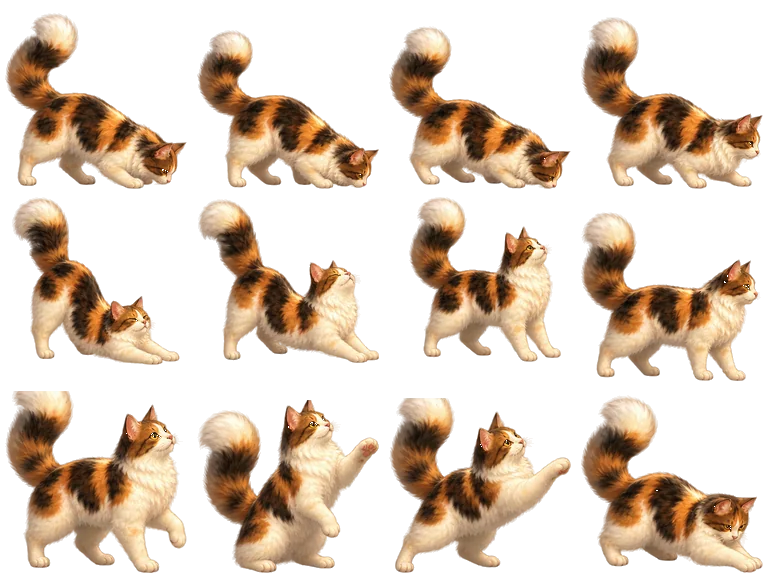
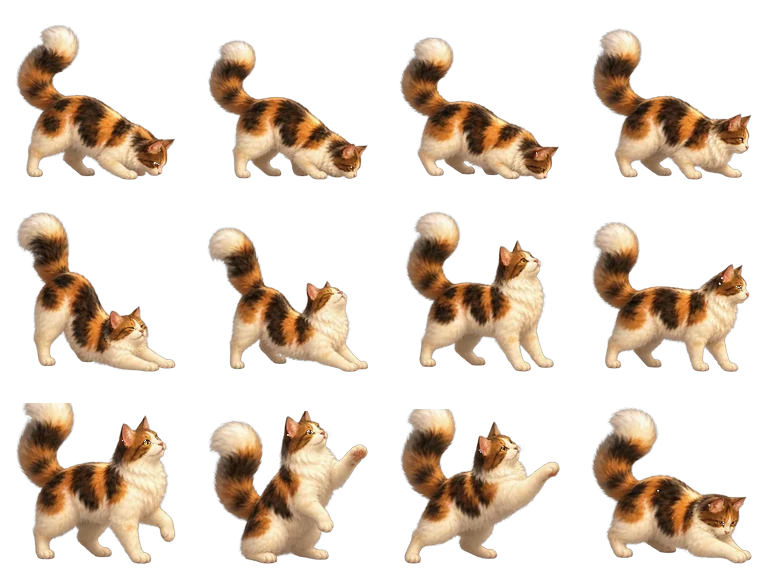
Let the cat and the furniture obey the perspective
The four causes held as next-session priority. One was not what the note
said it was.

The clipping was real and the diagnosis was not. Frames do not touch their
cell edges - each had about 3px of clearance in a 192px cell. But the cat
renders near 120px, so 3px is under two device pixels, and the sheet is
addressed in percentages: background-position lands on fractions and
bleeds a sliver of the next frame along the seam. Frames are repacked to
84% of their cell on a common baseline, margins 3px to 12px. Repacked
rather than position-snapped, because it will always be addressed in
percentages.

The cat was a flat 13% of the scene everywhere, a giant against the back
wall while everything near it shrank with the depth. widthAt(y) maps the
anchor range onto the approved 6-9% band and clamps it: 6% at the door, 9%
at the front. The rule lives in the pet module so every caller agrees.

The walk was eleven poses a second, crossing the yard in under two seconds
and stopping dead. Now 160ms a frame, with speed falling away over the
last stretch so it settles rather than hits - no new state, the distance
left is the only input. Same journey: 1.8s to 5.4s, 11.1 pose changes a
second to 6.3, still landing exactly on the anchor.

Furniture ignored where it stood, so the same table covered the same
fraction of the picture at the back wall as at the front. Width is now the
object's size times its slot's depth: 20.16% at the back, 28% at the
front, same table.
[…]

diff --git a/index.html b/index.html
@@ -16,7 +16,7 @@
 <link rel="preconnect" href="https://fonts.googleapis.com">
 <link rel="preconnect" href="https://fonts.gstatic.com" crossorigin>
 <link href="https://fonts.googleapis.com/css2?family=Shippori+Mincho:wght@400;600;800&family=Zen+Maru+Gothic:wght@400;500;700&display=swap" rel="stylesheet">
-<link rel="stylesheet" href="styles.css?v=162">
+<link rel="stylesheet" href="styles.css?v=163">
 </head>
 <body>
 
@@ -215,31 +215,31 @@
   <footer class="credits">Lantern Alley &middot; a small Japanese story-walk</footer>
 </div>
 
-<script src="curriculum-catalog.js?v=162"></script>
-<script src="learning-content.js?v=162"></script>
-<script src="review-engine.js?v=162"></script>
-<script src="learning-progress.js?v=162"></script>
-<script src="learning-economy.js?v=162"></script>
-    <script src="learning-gloss.js?v=162"></script>
-    <script src="home-room.js?v=162"></script>
-    <script src="home-decor.js?v=162"></script>
-    <script src="home-garden.js?v=162"></script>
-    <script src="home-pet.js?v=162"></script>
-    <script src="daily-practice.js?v=162"></script>
-    <script src="review-mode.js?v=162"></script>
-<script src="question-renderer.js?v=162"></script>
-<script src="catalog-practice.js?v=162"></script>
-<script src="entrance-stage-logic.js?v=162"></script>
-<script src="moonview-inn-interactions.js?v=162"></script>
-<script src="n2-home-inn-stage.js?v=162"></script>
-<script src="n2-inn-episodes.js?v=162"></script>
-    <script src="n2-market-episodes.js?v=162"></script>
-    <script src="n2-teahouse-episodes.js?v=162"></script>
-    <script src="n2-station-episodes.js?v=162"></script>
-    <script src="n2-shrine-episodes.js?v=162"></script>
-<script src="audio-index.js?v=162"></script>
-<script src="lantern-map.js?v=162"></script>
-<script src="app.js?v=162"></script>
+<script src="curriculum-catalog.js?v=163"></script>
+<script src="learning-content.js?v=163"></script>
+<script src="review-engine.js?v=163"></script>
+<script src="learning-progress.js?v=163"></script>
+<script src="learning-economy.js?v=163"></script>
+    <script src="learning-gloss.js?v=163"></script>
+    <script src="home-room.js?v=163"></script>
+    <script src="home-decor.js?v=163"></script>
+    <script src="home-garden.js?v=163"></script>
+    <script src="home-pet.js?v=163"></script>
+    <script src="daily-practice.js?v=163"></script>
+    <script src="review-mode.js?v=163"></script>
+<script src="question-renderer.js?v=163"></script>
+<script src="catalog-practice.js?v=163"></script>
+<script src="entrance-stage-logic.js?v=163"></script>
+<script src="moonview-inn-interactions.js?v=163"></script>
+<script src="n2-home-inn-stage.js?v=163"></script>
+<script src="n2-inn-episodes.js?v=163"></script>
+    <script src="n2-market-episodes.js?v=163"></script>
+    <script src="n2-teahouse-episodes.js?v=163"></script>
+    <script src="n2-station-episodes.js?v=163"></script>
+    <script src="n2-shrine-episodes.js?v=163"></script>
+<script src="audio-index.js?v=163"></script>
+<script src="lantern-map.js?v=163"></script>
+<script src="app.js?v=163"></script>
 
 <script>
   // Service workers need http(s); opening this file directly with file://

diff --git a/home-room.js b/home-room.js
@@ -20,17 +20,26 @@
   // Slots the decor system will fill later. Named by where they are in the
   // room rather than by what goes in them, so a lamp and a plant can compete
   // for the same corner.
+  /* The room is painted in perspective too, so each position carries how far
+   * back it is - the same `scale` the yard beds use.
+   *
+   * The floor is calibrated separately from the wall on purpose. Depth on a
+   * floor is real recession: a table at the back of the room genuinely covers
+   * less of the picture than the same table at the front. A wall is a flat
+   * plane facing the viewer, so a scroll hung high is not further away and
+   * shrinking it would look wrong rather than deep. Shelf and sill sit on that
+   * same back plane and are treated with it. */
   var SLOTS = [
-    {id:"floor-left",   x:27, y:80, kind:"floor", label:"床の左"},
-    {id:"floor-right",  x:73, y:80, kind:"floor", label:"床の右"},
-    {id:"floor-back-left", x:32, y:68, kind:"floor", label:"床の奥左"},
-    {id:"floor-back-right", x:68, y:68, kind:"floor", label:"床の奥右"},
-    {id:"floor-front", x:50, y:88, kind:"floor", label:"床の手前"},
-    {id:"wall-left",    x:12, y:45, kind:"wall",  label:"壁の左"},
-    {id:"wall-right",   x:88, y:45, kind:"wall",  label:"壁の右"},
-    {id:"shelf",        x:50, y:66, kind:"shelf", label:"奥の段"},
-    {id:"window-sill",  x:34, y:60, kind:"sill",  label:"窓辺"},
-    {id:"tokonoma", x:50, y:51, kind:"shelf", label:"床の間"}
+    {id:"floor-left",   x:27, y:80, scale:0.89, kind:"floor", label:"床の左"},
+    {id:"floor-right",  x:73, y:80, scale:0.89, kind:"floor", label:"床の右"},
+    {id:"floor-back-left", x:32, y:68, scale:0.72, kind:"floor", label:"床の奥左"},
+    {id:"floor-back-right", x:68, y:68, scale:0.72, kind:"floor", label:"床の奥右"},
+    {id:"floor-front", x:50, y:88, scale:1.00, kind:"floor", label:"床の手前"},
+    {id:"wall-left",    x:12, y:45, scale:0.92, kind:"wall",  label:"壁の左"},
+    {id:"wall-right",   x:88, y:45, scale:0.92, kind:"wall",  label:"壁の右"},
+    {id:"shelf",        x:50, y:66, scale:0.78, kind:"shelf", label:"奥の段"},
+    {id:"window-sill",  x:34, y:60, scale:0.80, kind:"sill",  label:"窓辺"},
+    {id:"tokonoma", x:50, y:51, scale:0.85, kind:"shelf", label:"床の間"}
   ];
 
   /* The eight beds, measured off the painting rather than estimated from it.

diff --git a/home-pet.js b/home-pet.js
@@ -36,6 +36,25 @@
 
   function copy(value){ return JSON.parse(JSON.stringify(value)); }
   function sceneAnchors(scene){ return (SCENES[scene] || []).map(copy); }
+
+  /* How big the cat is where it is standing.
+   *
+   * Both scenes are painted in perspective and the cat was a flat 13% of the
+   * scene everywhere, which made it a giant at the back wall and left it
+   * ignoring the depth every other object respects. Anchors run from y=45 at
+   * the back to y=88 at the front; this maps that onto the approved 6-9% band
+   * and clamps, so a position outside the authored range cannot produce an
+   * absurd size. */
+  var PET_MIN_WIDTH = 6;
+  var PET_MAX_WIDTH = 9;
+  var PET_NEAR_Y = 88;
+  var PET_FAR_Y = 45;
+
+  function widthAt(y){
+    var depth = (Number(y) - PET_FAR_Y) / (PET_NEAR_Y - PET_FAR_Y);
+    depth = Math.max(0, Math.min(1, depth));
+    return +(PET_MIN_WIDTH + (PET_MAX_WIDTH - PET_MIN_WIDTH) * depth).toFixed(2);
+  }
   function find(scene, id){ return (SCENES[scene] || []).filter(function(row){ return row.id === id; })[0] || null; }
 
   function create(scene, seed){
@@ -81,7 +100,15 @@
     var dx = target.x - next.x;
     var dy = target.y - next.y;
     var distance = Math.sqrt(dx * dx + dy * dy);
-    var travel = elapsed * 0.012;
+    /* Slower, and slowing further as it arrives.
+      *
+      * A flat 0.012 scene-percent per millisecond crossed the yard in about
+      * three seconds and stopped dead on the spot, which is what read as jumpy.
+      * Speed now falls away over the last stretch, so the cat settles onto an
+      * anchor instead of hitting it. No extra state: the distance left is the
+      * only input. */
+    var approach = Math.min(1, distance / 14);
+    var travel = elapsed * (0.0016 + 0.0044 * approach);
     if(distance <= travel || distance === 0){
       next.x = target.x;
       next.y = target.y;
@@ -94,7 +121,8 @@
     next.x += dx / distance * travel;
     next.y += dy / distance * travel;
     next.behavior = "walk";
-    next.frame = Math.floor(next.clock / 90) % 8;
+    // 90ms was eleven poses a second for a walking cat. 160 is a walk.
+    next.frame = Math.floor(next.clock / 160) % 8;
     return next;
   }
 
@@ -145,6 +173,7 @@
 
   root.LanternHomePet = {
     anchors:sceneAnchors,
+    widthAt:widthAt,
     behaviors:function(){ return Object.keys(SPRITES); },
     create:create,
     sendTo:sendTo,

diff --git a/app.js b/app.js
@@ -2994,7 +2994,14 @@
       + (attrs || "") + '>' + inner + '</div>';
   }
 
-  function decorSceneWidth(item){
+  /* An object's size on screen is what it is, times where it stands.
+   *
+   * This used to be the item alone, so the same low table covered the same
+   * fraction of the picture at the back wall as at the front of the room - the
+   * one thing a scene drawn in perspective cannot survive. The slot's `scale`
+   * supplies the depth; the table below stays what it always was, the object's
+   * own size. */
+  function decorSceneWidth(item, slot){
     var widths = {
       "rug-plain":26, "low-table":28, kotatsu:30, "folding-screen":32,
       "floor-cushion-navy":18, "plant-small":12, brazier:12,
@@ -3002,7 +3009,8 @@
       fan:10, mask:9, teapot:8, books:10, "cat-figure":8, daruma:8,
       "sakura-bonsai":13, "pine-bonsai":13, "sill-plant":7, "wind-chime":7
     };
-    return widths[item && item.id] || 18;
+    var base = widths[item && item.id] || 18;
+    return +(base * ((slot && slot.scale) || 1)).toFixed(2);
   }
 
   function homePetMarkup(scene){
@@ -3014,7 +3022,9 @@
       homePetIdleMs = 0;
     }
     var sprite = LanternHomePet.spriteFor(homePetState);
-    return '<div class="home-pet" aria-hidden="true" style="left:' + homePetState.x
+    var petWidth = (typeof LanternHomePet !== "undefined" && LanternHomePet.widthAt)
+      ? LanternHomePet.widthAt(homePetState.y) : 7.5;
+    return '<div class="home-pet" aria-hidden="true" style="width:' + petWidth + '%;left:' + homePetState.x
       + '%;top:' + homePetState.y + '%;--pet-facing:' + homePetState.facing + '">'
       + '<span style="background-image:url(\'' + sprite.path + '\');background-size:'
       + (sprite.columns * 100) + '% ' + (sprite.rows * 100) + '%"></span></div>';
@@ -3148,7 +3158,7 @@
         html += positioned("home-item", slot, decorArt(here, item.name),
           ' data-slot-item="' + slot.id + '" role="button" tabindex="0"'
             + ' aria-label="' + item.name + ' をかたづける"',
-          'width:' + decorSceneWidth(item) + '%');
+          'width:' + decorSceneWidth(item, slot) + '%');
       });
       if(picked){
         interior.slots.forEach(function(slot){

diff --git a/styles.css b/styles.css
@@ -1583,8 +1583,12 @@
      everything from the house, so anything standing in it needs to sit in that
      light rather than float above it. */
   .home-plant, .home-item{position:absolute; width:20%; cursor:pointer; line-height:0}
+  /* Width is set inline from the cat's own depth, so the flat 13% here is only
+     the fallback for a render before the pet module has spoken. It used to be
+     the actual size everywhere, which made the cat a giant against the back
+     wall while every object around it shrank with the perspective. */
   .home-pet{
-    position:absolute; z-index:3; width:13%; aspect-ratio:1;
+    position:absolute; z-index:3; width:7.5%; aspect-ratio:1;
     transform:translate(-50%,-86%); pointer-events:none; line-height:0;
     filter:drop-shadow(0 3px 4px rgba(28,16,8,.48)) saturate(.9) sepia(.08);
   }
@@ -1592,7 +1596,7 @@
     display:block; width:100%; height:100%; background-repeat:no-repeat;
     transform:scaleX(var(--pet-facing,1)); transform-origin:center bottom;
   }
-  @media (prefers-reduced-motion:reduce){.home-pet{width:12%}}
+  /* Reduced motion changes whether it moves, not how big it is. */
   /* Three small things, all of which stop a cut-out reading as pasted on.
 
      The shadow gives it contact with the ground. The warm grade pulls a

diff --git a/sw.js b/sw.js
@@ -7,7 +7,7 @@
  * Bump CACHE_VERSION whenever any shell file changes, or returning players
  * will keep the old build.
  */
-var CACHE_VERSION = "lantern-alley-v162";
+var CACHE_VERSION = "lantern-alley-v163";
 
 // audio-index.js assigns to `self`, so the worker and the page share one list
 // of clip paths. Importing it here means new lines are cached automatically

diff --git a/PROJECT-HANDOFF.md b/PROJECT-HANDOFF.md
@@ -4,30 +4,6 @@ Last updated: 2026-08-29
 
 ## 0. Current status
 
-### 2026-08-29 - Cat motion, clipping, and scene-scale repair (next session priority)
-
-The user reported that the cat is jumpy, parts are cut off during movement, and both the cat and placed objects do not fit the scene scale. Do not commit or push the current working tree until this repair is completed and verified.
-
-Verified root causes:
-
-1. `assets/home/pet/calico-walk-v1.webp` places cat pixels directly against sprite-cell edges. CSS cannot recover pixels outside a frame, so the sheet must be repacked with transparent padding.
-2. `.home-pet` in `styles.css` always uses `width:13%` (`12%` reduced motion), regardless of anchor depth. This makes the cat too large and inconsistent with the room/yard perspective.
-3. `home-pet.js` advances walking frames every 90 ms and moves at `elapsed * 0.012` scene-percent per millisecond. The fast pose changes and travel speed make the motion look jumpy.
-4. `app.js::decorSceneWidth()` scales by item only. It does not combine item size with slot depth, so foreground and background objects cannot blend consistently.
-
-Approved direction still required before implementation (the bounded design was presented, but the user has not explicitly approved it yet):
-
-- Repack all four cat sprite sheets into equal cells with transparent safety padding; preserve their current frame order and metadata.
-- Add authored pet scale per anchor or derive a clamped depth scale, approximately 6-9% scene width. Keep the paws anchored to the ground while scale changes.
-- Slow walking and use smooth continuous position interpolation; use a calmer frame cadence around 140-180 ms. Avoid CSS transitions that lag behind the state or slide after arrival.
-- Scale placed decor by both physical item size and slot depth. Keep wall/shelf/floor classes separately calibrated.
-- Write failing tests first for scale metadata, bounded cat size, travel speed, and decor depth scaling. Then implement one cause at a time.
-- Bump cache from v157 only after production changes.
-- Verify sprite edges, paws/ground contact, cat size, movement, and decor blending in yard and room at desktop and mobile. Run `node --test`, `node --check app.js`, `node --check home-pet.js`, and `git diff --check`.
-- Update this handoff after implementation. Never claim visual completion from automated tests alone.
-
-Current uncommitted work from the previous repair remains in `PROJECT-HANDOFF.md`, `app.js`, `home-pet.js`, `home-pet.test.mjs`, `index.html`, `styles.css`, and `sw.js`. It added longer cat dwell times, doorway entry, per-item decor widths, wallpaper fit, keyboard activation, and cache v157. Focused PWA/pet tests passed 43/43; the final browser visual QA was not completed.
-
 ### 2026-08-29 - Visual and cat-behavior audit repairs (implemented, browser QA remains)
 
 The v156 audit found five concrete issues to repair:
@@ -300,6 +276,22 @@ location.reload();
 This was not hypothetical: a freshly edited `lantern-map.js` was served from the browser cache while a brand-new file beside it loaded fine, and the map silently rendered without わが家 on it.
 
 ## 9. Change log and reasons
+
+### 2026-08-29 - The cat and the furniture now respect the perspective
+
+The four causes recorded as next-session priority, done. One of them was not what the note said it was.
+
+**The sprite clipping was real, and the diagnosis was not.** The note said frames "touch the sprite-cell edges". They do not - every frame in all four sheets had about 3px of clearance in a 192px cell. But the cat renders at roughly 120px, so 3px is under two device pixels, and the sheet is addressed in percentages: `background-position` lands on fractions and bleeds a sliver of the neighbouring frame along the seam. That is what looked like clipping. Each frame is now scaled to 84% of its cell and sat on a common baseline, so a walk cycle does not bob: **margins are 3px to 12px**, eight device pixels at render size, which no rounding can cross. Repacking rather than snapping positions, because the sheet will always be addressed in percentages.
+
+**The cat was a flat 13% of the scene everywhere**, which made it a giant against the back wall while every object around it shrank with the depth. `LanternHomePet.widthAt(y)` maps the anchors' range - y=45 at the back to y=88 at the front - onto the approved 6-9% band, clamped so a position outside the authored range cannot produce an absurd size. Measured in the yard: 6% at the door, 9% at the front. The rule lives in the pet module, not the renderer, so anything drawing a cat gets the same answer.
+
+**The walk was eleven poses a second crossing the yard in under two seconds, and stopping dead.** Now 160ms a frame, and speed falls away over the last stretch so it settles onto an anchor rather than hitting it - no extra state, the distance remaining is the only input. Measured on the same journey: **1.8s to 5.4s, 11.1 pose changes a second to 6.3**, still landing exactly on the anchor.
+
+**Furniture ignored where it stood.** `decorSceneWidth` took the item alone, so the same low table covered the same fraction of the picture at the back wall as at the front - the one thing a scene drawn in perspective cannot survive. Each room slot now carries a `scale` and the width is the object's own size times the depth it stands at. Verified with two identical tables: **20.16% at the back, 28% at the front.**
+
+**The floor and the wall are calibrated apart, on purpose.** Depth on a floor is real recession. A wall is a flat plane facing the viewer, so a scroll hung high is not further away, and shrinking it would read as wrong rather than deep. Shelf and sill sit on that same back plane and are treated with it.
+
+356 tests, 0 failures. Cache `lantern-alley-v163`.
 
 ### 2026-08-29 - A visual pass over the Inn and the rewards stage
 
